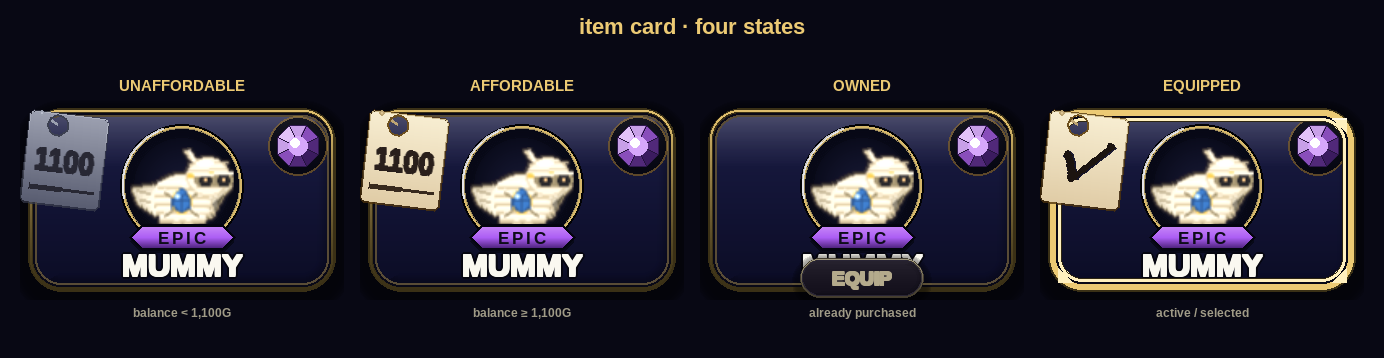
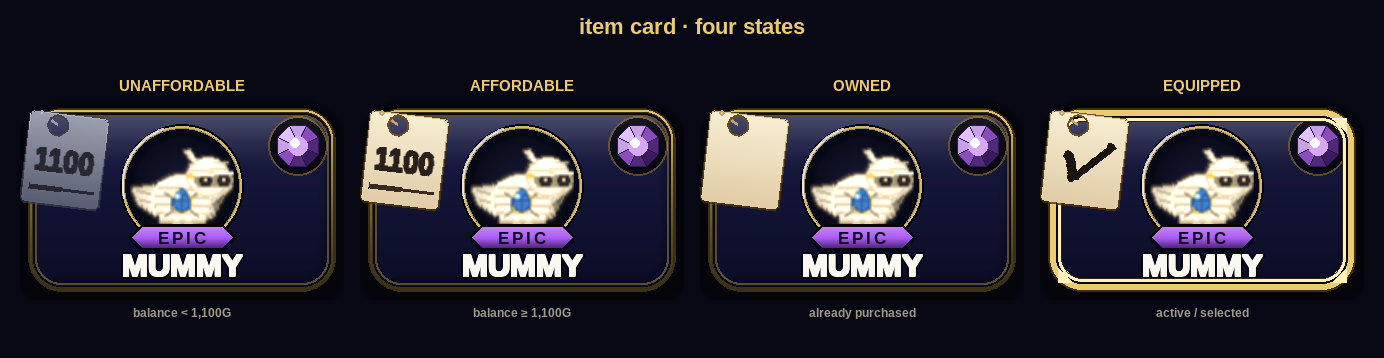
Owned state uses blank hang-tag instead of EQUIP chip
Refactors check_tag_chip() into a shared _draw_hang_tag() helper that
accepts an optional draw_face_fn. owned_tag_chip() calls it with no fn
(blank cream face); check_tag_chip() passes _tag_draw_check. state_chip()
now routes owned=True to owned_tag_chip() so owned cards show the same
cord/knot/tag geometry as equipped but with a blank face.

Claude-Session: https://claude.ai/code/session_01DaGYw11VdAubog2VGiiucC

Changed region(s): [[0.4971, 0.3073, 0.5903, 0.5838], [0.5592, 0.7067, 0.6835, 0.8296]]

diff --git a/game/store_cards.py b/game/store_cards.py
@@ -828,9 +828,9 @@ def price_chip(surf, cx, cy, text, h, variant=1, affordable=True):
                               min(cord[2]+30,255)), knot, max(1, m(0.6)))
 
 
-def check_tag_chip(surf, cx, cy, h):
-    """Equipped hang-tag: same cord/knot/face geometry as price_chip(), but the
-    face carries a ✓ in the same sumi-ink treatment as the price numeral."""
+def _draw_hang_tag(surf, cx, cy, draw_face_fn=None):
+    """Shared geometry for the owned/equipped hang-tag chip. Draws cord, knot,
+    cream face with bevel, and grommet. Calls draw_face_fn(face) if provided."""
     rad     = m(3)
     grommet = (30, 13)
 
@@ -843,7 +843,8 @@ def check_tag_chip(surf, cx, cy, h):
     bevel_rim(face, brect, rad, (80, 52, 12, 200),
               (255, 240, 190, 200), w=max(1, m(1.2)))
 
-    _tag_draw_check(face)
+    if draw_face_fn is not None:
+        draw_face_fn(face)
 
     pygame.draw.circle(face, (0, 0, 0, 0), grommet, m(5))
     pygame.draw.circle(face, (110, 80, 30), grommet, m(5) + 1, width=max(1, m(1)))
@@ -860,6 +861,16 @@ def check_tag_chip(surf, cx, cy, h):
     pygame.draw.circle(surf, cord, knot, m(1.5))
     pygame.draw.circle(surf, (min(cord[0]+30,255), min(cord[1]+30,255),
                               min(cord[2]+30,255)), knot, max(1, m(0.6)))
+
+
+def check_tag_chip(surf, cx, cy, h):
+    """Equipped hang-tag: cream face with the ✓ angular-drop mark."""
+    _draw_hang_tag(surf, cx, cy, draw_face_fn=_tag_draw_check)
+
+
+def owned_tag_chip(surf, cx, cy, h):
+    """Owned hang-tag: same cord/face geometry as equipped but blank face — no mark."""
+    _draw_hang_tag(surf, cx, cy, draw_face_fn=None)
 
 
 def status_chip(surf, cx, cy, text, h, kind="equip"):
@@ -914,7 +925,7 @@ def state_chip(surf, sid, cx, cy, equipped, secret, h, owned=False,
     if equipped:
         return check_tag_chip(surf, cx, cy, h)
     if owned:
-        return status_chip(surf, cx, cy, "EQUIP", h, kind="equip")
+        return owned_tag_chip(surf, cx, cy, h)
     price = _cost(sid)
     return price_chip(surf, cx, cy, f"{price:,}", h, variant=variant,
                       affordable=store_data.balance() >= price)
